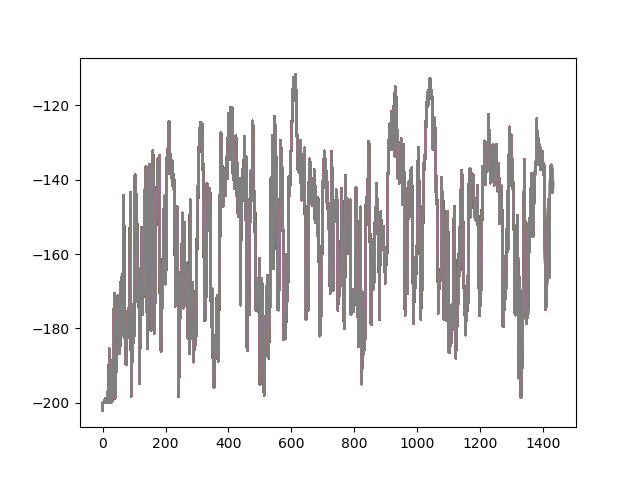
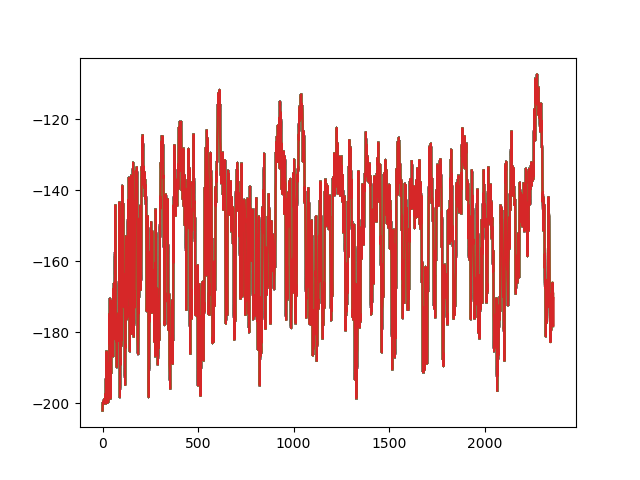
tune

diff --git a/ai_car.py b/ai_car.py
@@ -5,14 +5,14 @@ import _pickle as pickle
 
 
 # settings
-render = False
+render = True
 print_policy = True
 resume = True
 file_name = 'lr001d20e001.p'
 
 # hyper parameters
 D = 20
-MAX_ITERATIONS = 200000
+MAX_ITERATIONS = 500000
 LEARNING_RATE_INITIAL = 0.5
 LEARNING_RATE_MINIMUM = 0.01
 EPSILON_INITIAL = 0.1
@@ -75,7 +75,7 @@ def main():
         step += 1
         observation = environment.reset()
         while True:
-            if render:
+            if render and i % 1000 == 0:
                 environment.render()
             s1, s2 = observation_to_table_index(environment, observation)
             action = sample_action(environment, q_table, s1, s2, i)
